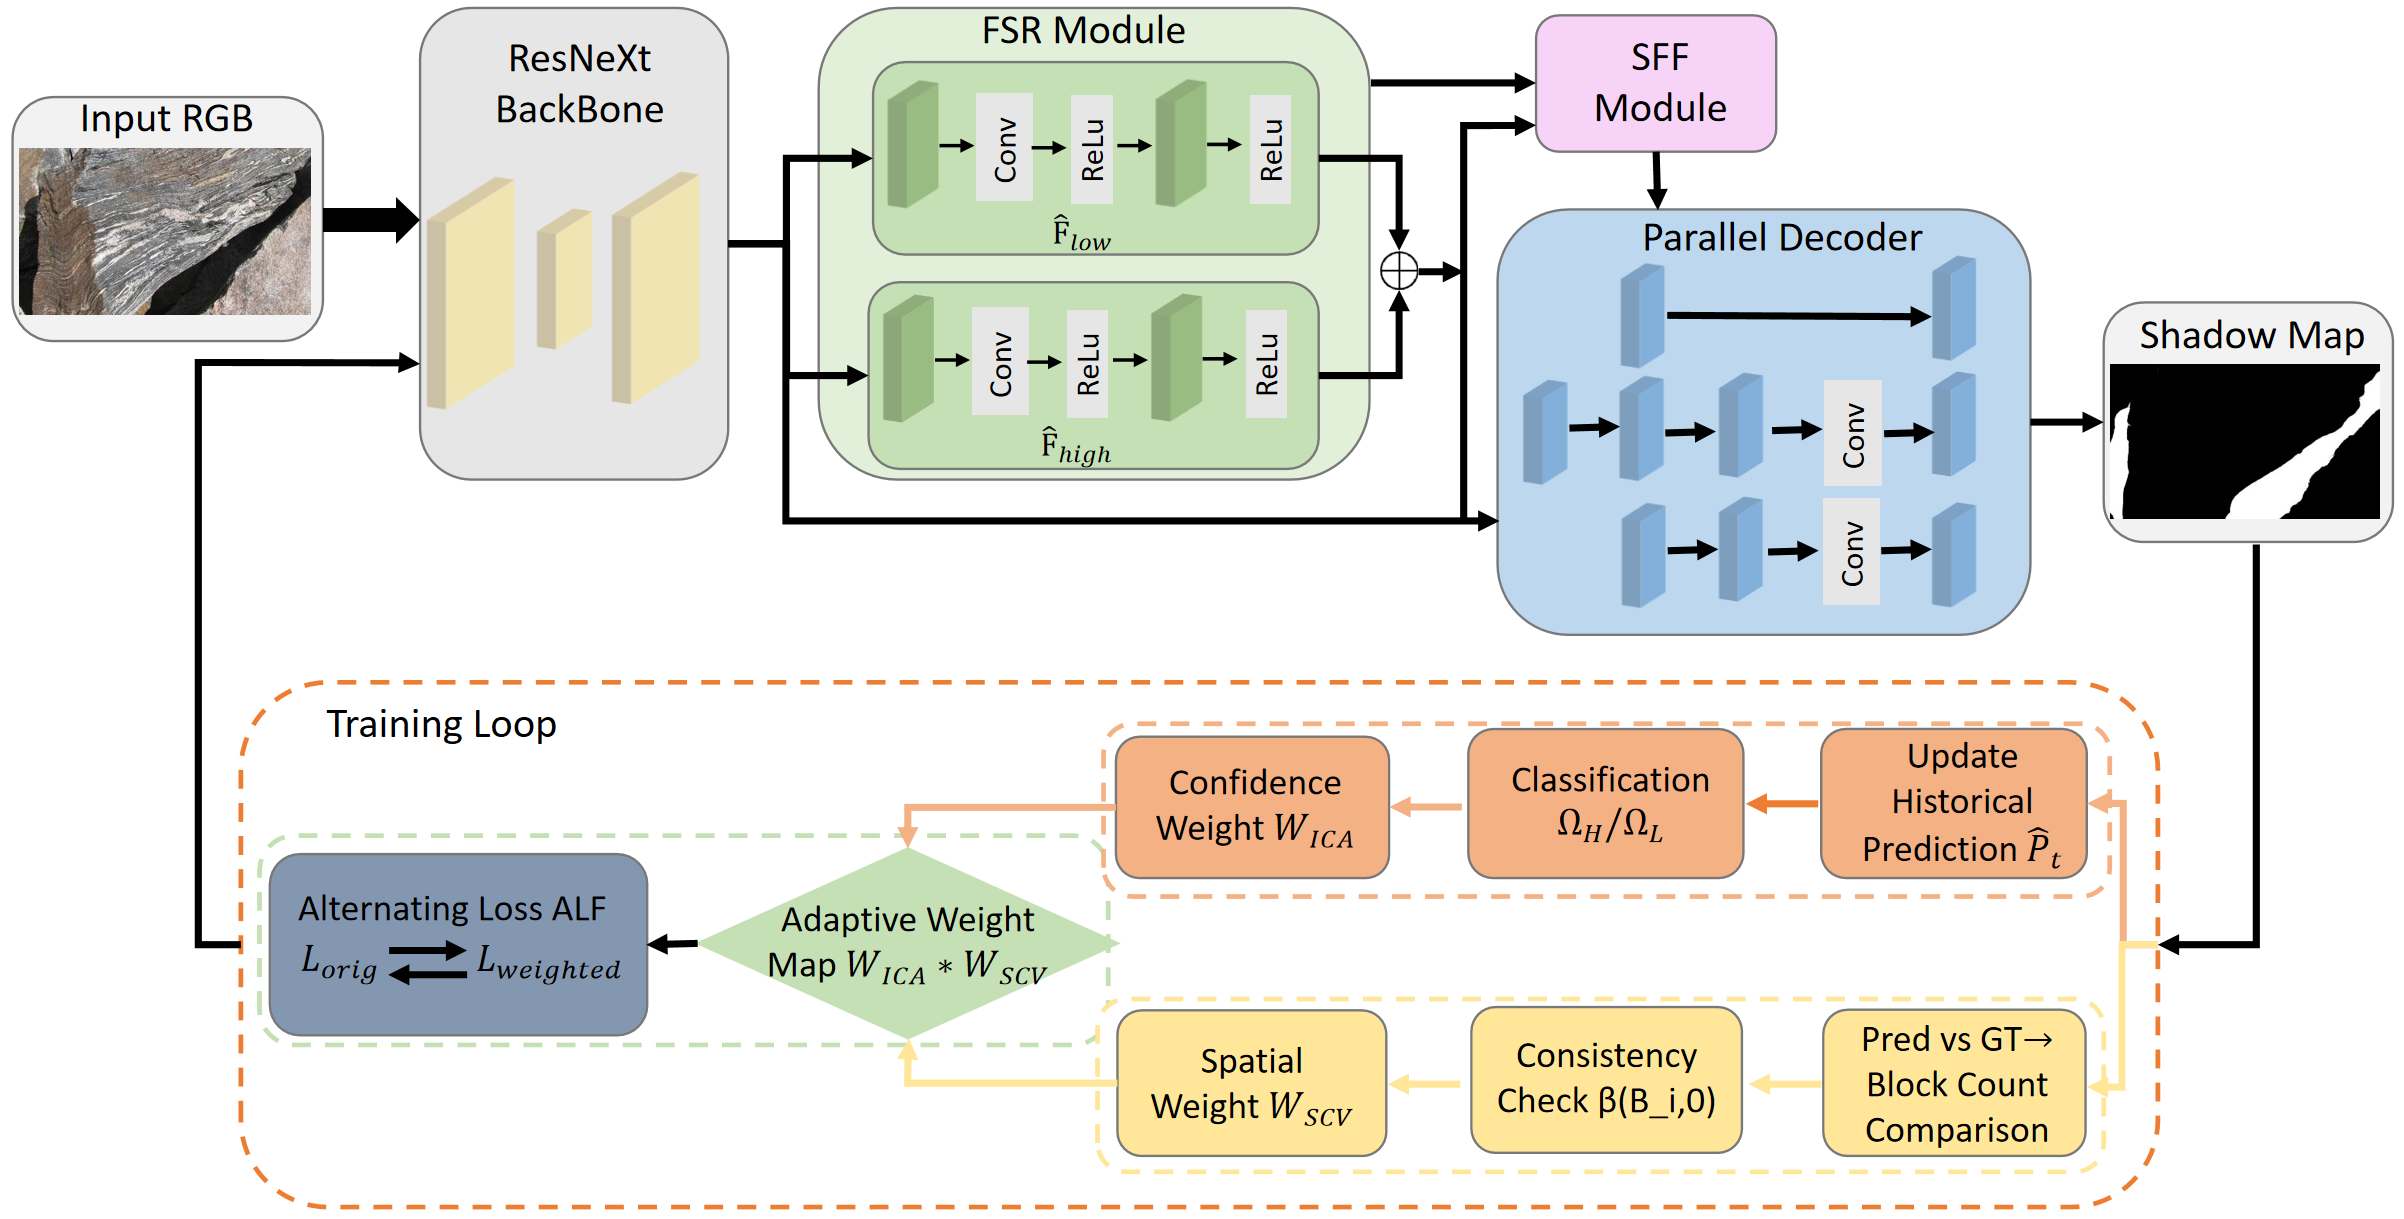
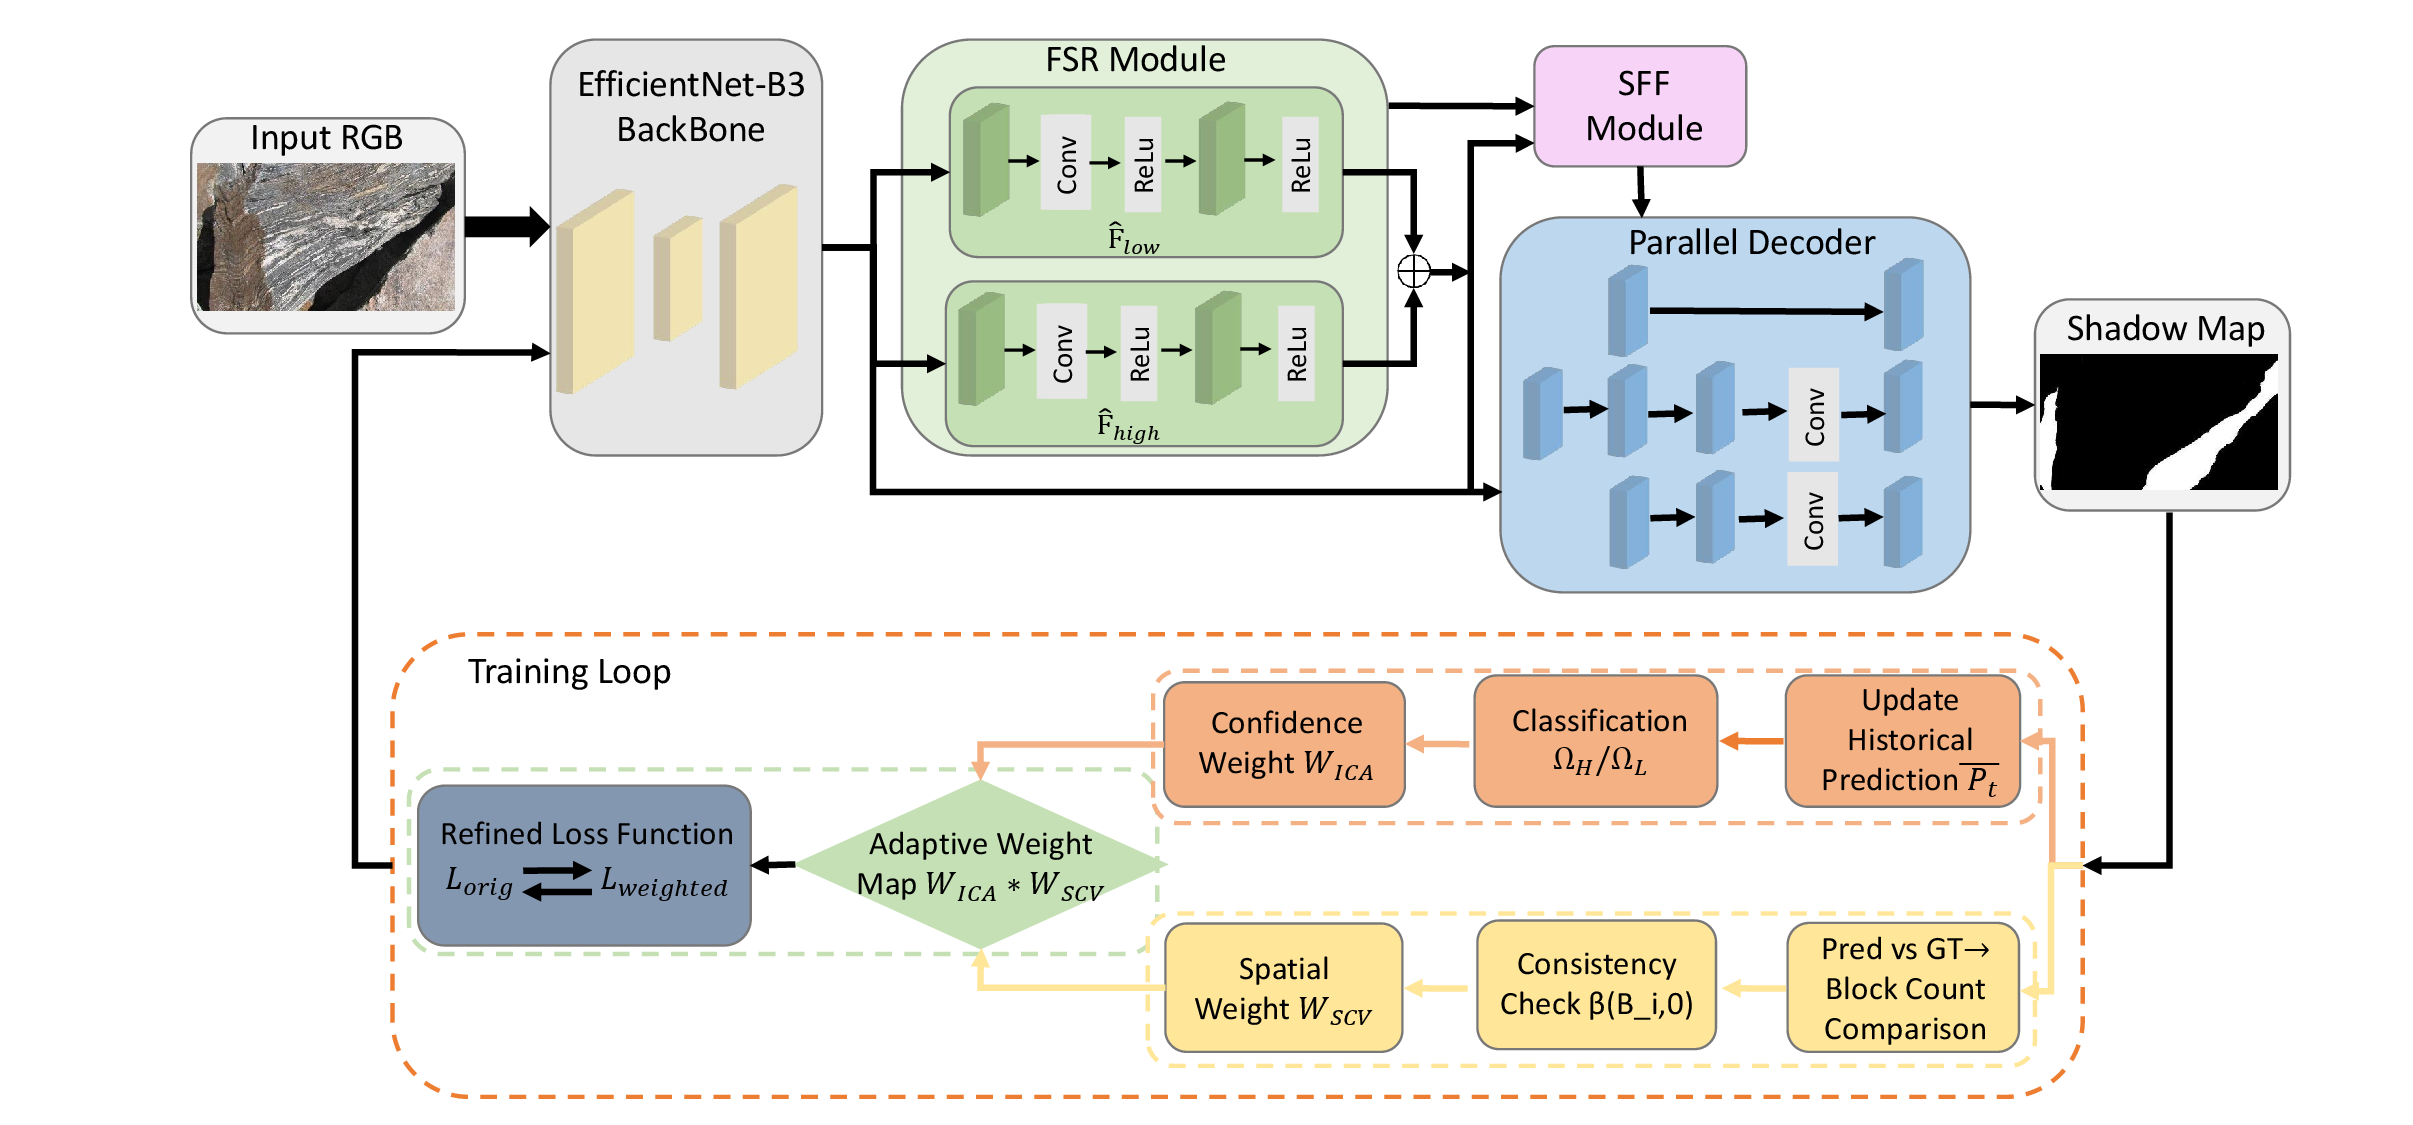
Update overview figure and rename ALF to BRLF
- Replace assets/overview.png with higher-quality version from overview.pdf
- Update README: rename ALF (Alternating Loss Function) to BRLF (Boundary Refined Loss Function) throughout

diff --git a/README.md b/README.md
@@ -2,7 +2,7 @@
 
 ## Abstract
 
-Deep learning-based shadow detection has made significant progress in recent years. However, annotation noise in training data causes existing methods to misidentify dark non-shadow regions and produce imprecise shadow boundaries. In this paper, we propose a robust shadow detection framework that identifies unreliable labels during training and reduces their negative effects. Specifically, we introduce an **Iterative Confidence Aggregation (ICA)** mechanism that accumulates pixel-wise prediction probabilities over time to identify unreliable pixels and adjust their supervision weights. We further design a **Spatial Consistency Verification (SCV)** mechanism that downweights supervision in regions with inconsistent local boundary structures. Finally, we adopt an **Alternating Loss Function (ALF)** strategy that switches between the original and weighted losses during training to improve robustness and reduce overfitting. Compared with the state-of-the-art baseline, our method reduces BER by **8.16%** on SBU and **10.20%** on ISTD.
+Deep learning-based shadow detection has made significant progress in recent years. However, annotation noise in training data causes existing methods to misidentify dark non-shadow regions and produce imprecise shadow boundaries. In this paper, we propose a robust shadow detection framework that identifies unreliable labels during training and reduces their negative effects. Specifically, we introduce an **Iterative Confidence Aggregation (ICA)** mechanism that accumulates pixel-wise prediction probabilities over time to identify unreliable pixels and adjust their supervision weights. We further design a **Spatial Consistency Verification (SCV)** mechanism that downweights supervision in regions with inconsistent local boundary structures. Finally, we adopt a **Boundary Refined Loss Function (BRLF)** strategy that switches between the original and weighted losses during training to improve robustness and reduce overfitting. Compared with the state-of-the-art baseline, our method reduces BER by **8.16%** on SBU and **10.20%** on ISTD.
 
 ## Framework
 
@@ -12,7 +12,7 @@ The proposed framework consists of three complementary components built upon SDD
 
 - **ICA** — Iterative Confidence Aggregation: accumulates historical predictions via EMA to identify unreliable pixels and downweight their supervision.
 - **SCV** — Spatial Consistency Verification: evaluates local boundary structure consistency to suppress supervision in spatially inconsistent regions.
-- **ALF** — Alternating Loss Function: periodically switches between the original SDDNet loss and the weighted loss to balance disentanglement stability and reliability-weighted supervision.
+- **BRLF** — Boundary Refined Loss Function: periodically switches between the original SDDNet loss and the weighted loss to balance disentanglement stability and reliability-weighted supervision.
 
 ### ICA Mechanism
 
